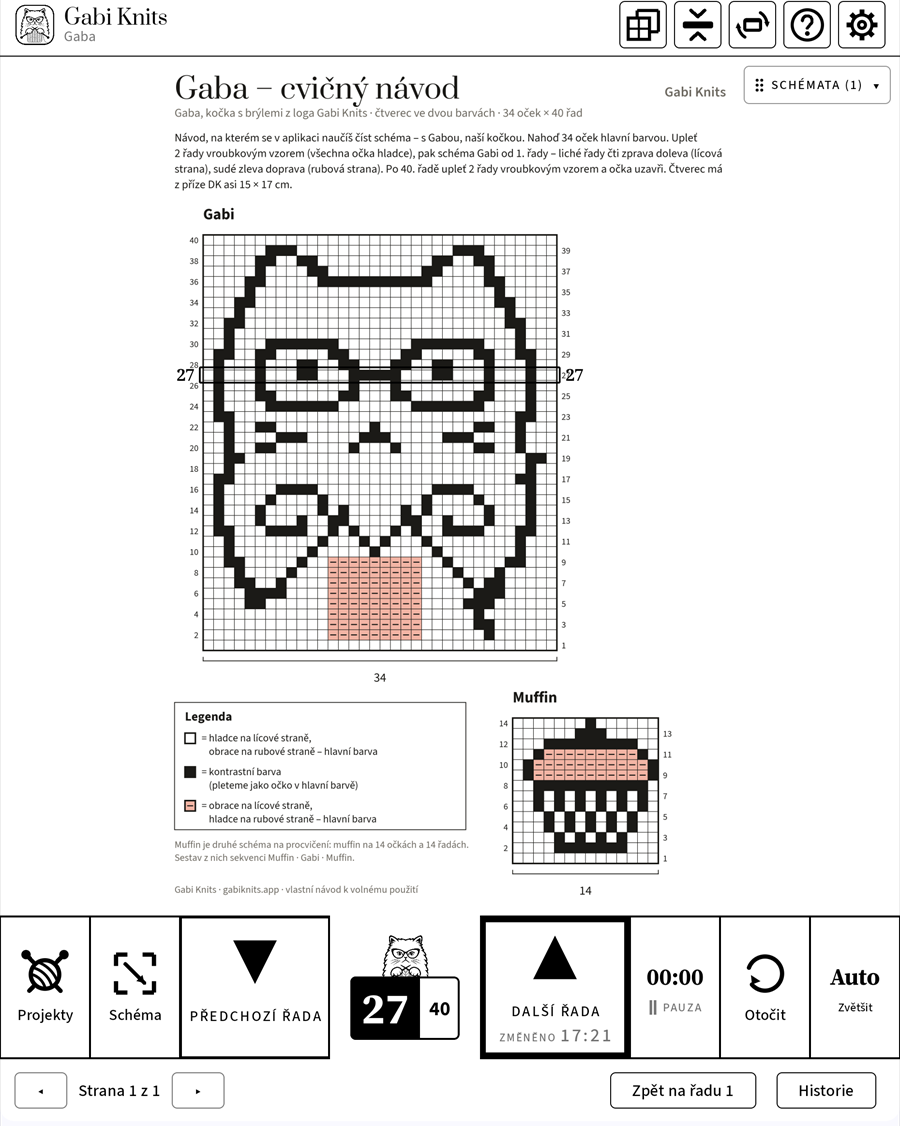
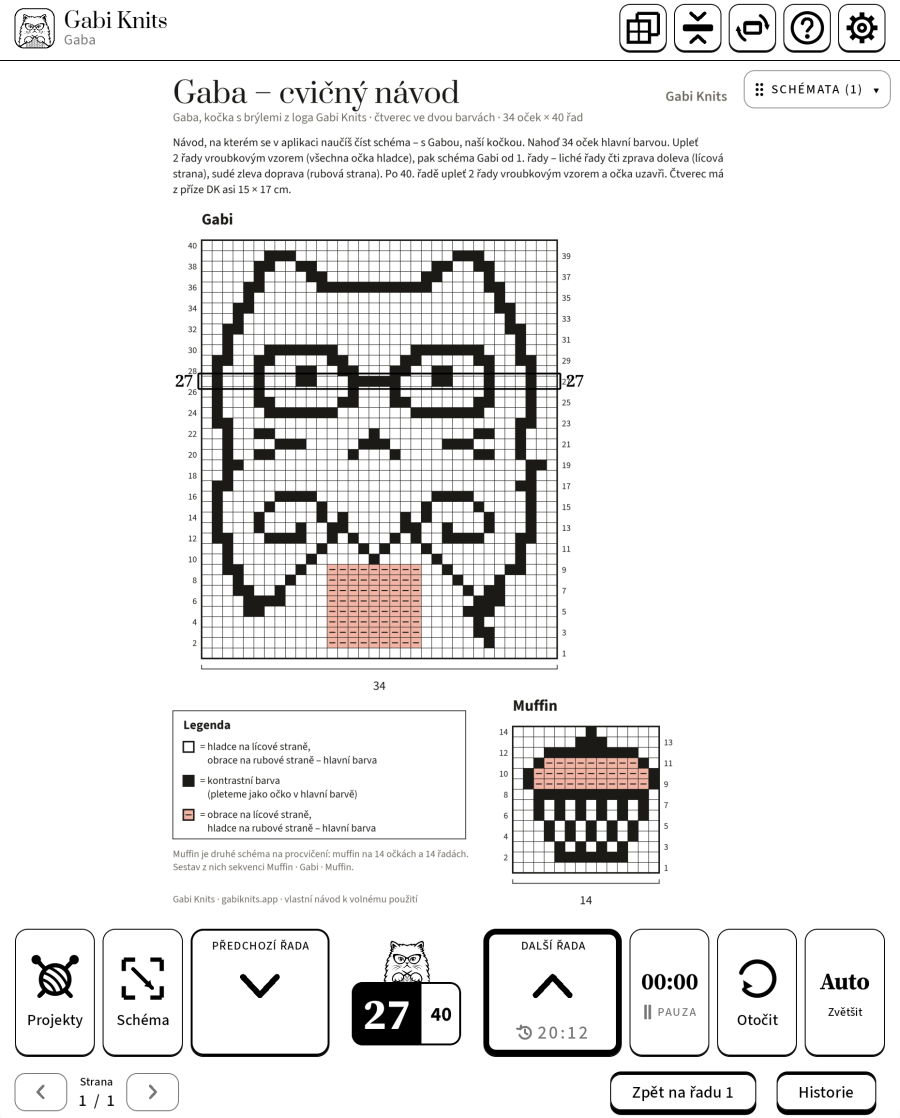
Zrzuty e-inku z nowym wyglądem aplikacji (przyciski jak klawisze, szewrony, godzina z ikonką, „Strona 1 / 1”) we wszystkich 7 językach - niemiecki, norweski, duński i szwedzki mają już własne zrzuty zamiast angielskiego

Changed region(s): [[0.0, 0.0, 1.0, 1.0]]

diff --git a/de/index.html b/de/index.html
@@ -60,7 +60,7 @@
 </div></section>
 
 <section id="eink" class="sec eink"><div class="wrap">
-  <div class="eink-shot"><div class="device eink"><div class="screen"><img src="../assets/shots/de/eink.png" width="900" height="1126" alt="Gabi Knits auf einem BOOX E-Ink-Tablet: das Diagramm mit der Katze Gabi aus der Übungsanleitung „Gaba“, die aktuelle Reihe in einem dicken schwarzen Rahmen, die Nummer auf beiden Seiten" loading="lazy" decoding="async"></div></div></div>
+  <div class="eink-shot"><div class="device eink"><div class="screen"><img src="../assets/shots/de/eink.png" width="900" height="1118" alt="Gabi Knits auf einem BOOX E-Ink-Tablet: das Diagramm mit der Katze Gabi aus der Übungsanleitung „Gaba“, die aktuelle Reihe in einem dicken schwarzen Rahmen, die Nummer auf beiden Seiten" loading="lazy" decoding="async"></div></div></div>
   <div class="eink-text">
     <p class="eyebrow">Für BOOX <span class="nw">E-Ink-Tablets</span></p>
     <h2>Von Anfang an für <span class="nw">E-Ink</span> entworfen</h2>
@@ -74,7 +74,7 @@
   <div class="trio">
     <figure class="d-phone"><div class="device phone"><div class="screen"><img src="../assets/shots/de/step3.png" width="480" height="949" alt="Das Diagramm Gabi Reihe für Reihe stricken: die aktuelle Reihe hervorgehoben, darunter die Taste „Nächste Reihe“" loading="lazy" decoding="async"></div></div><figcaption>Handy</figcaption></figure>
     <figure class="d-tablet"><div class="device tablet"><div class="screen"><img src="../assets/shots/de/tablet.png" width="1500" height="745" alt="Gabi Knits auf dem Tablet: das Diagramm mit der Katze Gabi vergrößert, die aktuelle Reihe unter einem gelben Balken und Katze Gaba über dem Reihenzähler" loading="lazy" decoding="async"></div></div><figcaption>Tablet</figcaption></figure>
-    <figure class="d-eink"><div class="device eink"><div class="screen"><img src="../assets/shots/de/eink.png" width="900" height="1126" alt="Gabi Knits auf einem BOOX E-Ink-Tablet: das Diagramm mit der Katze Gabi aus der Übungsanleitung „Gaba“, die aktuelle Reihe in einem dicken schwarzen Rahmen, die Nummer auf beiden Seiten" loading="lazy" decoding="async"></div></div><figcaption>BOOX <span class="nw">E-Ink-Tablet</span></figcaption></figure>
+    <figure class="d-eink"><div class="device eink"><div class="screen"><img src="../assets/shots/de/eink.png" width="900" height="1118" alt="Gabi Knits auf einem BOOX E-Ink-Tablet: das Diagramm mit der Katze Gabi aus der Übungsanleitung „Gaba“, die aktuelle Reihe in einem dicken schwarzen Rahmen, die Nummer auf beiden Seiten" loading="lazy" decoding="async"></div></div><figcaption>BOOX <span class="nw">E-Ink-Tablet</span></figcaption></figure>
   </div>
 </div></section>
 

diff --git a/cs/index.html b/cs/index.html
@@ -60,7 +60,7 @@
 </div></section>
 
 <section id="eink" class="sec eink"><div class="wrap">
-  <div class="eink-shot"><div class="device eink"><div class="screen"><img src="../assets/shots/cs/eink.png" width="900" height="1126" alt="Gabi Knits na e-inkovém tabletu BOOX: schéma s kočičkou Gabi z cvičného návodu „Gaba“, aktuální řada v silném černém rámečku, s číslem na obou stranách" loading="lazy" decoding="async"></div></div></div>
+  <div class="eink-shot"><div class="device eink"><div class="screen"><img src="../assets/shots/cs/eink.png" width="900" height="1118" alt="Gabi Knits na e-inkovém tabletu BOOX: schéma s kočičkou Gabi z cvičného návodu „Gaba“, aktuální řada v silném černém rámečku, s číslem na obou stranách" loading="lazy" decoding="async"></div></div></div>
   <div class="eink-text">
     <p class="eyebrow">Pro <span class="nw">e-inkové</span> tablety BOOX</p>
     <h2>Od začátku navržená pro <span class="nw">e-ink</span></h2>
@@ -74,7 +74,7 @@
   <div class="trio">
     <figure class="d-phone"><div class="device phone"><div class="screen"><img src="../assets/shots/cs/step3.png" width="480" height="949" alt="Pletení schématu Gabi řadu po řadě: aktuální řada zvýrazněná, pod ní tlačítko „Další řada“" loading="lazy" decoding="async"></div></div><figcaption>Telefon</figcaption></figure>
     <figure class="d-tablet"><div class="device tablet"><div class="screen"><img src="../assets/shots/cs/tablet.png" width="1500" height="745" alt="Gabi Knits na tabletu: přiblížené schéma s kočičkou Gabi, aktuální řada pod žlutou lištou a nad počítadlem řad kočička Gaba" loading="lazy" decoding="async"></div></div><figcaption>Tablet</figcaption></figure>
-    <figure class="d-eink"><div class="device eink"><div class="screen"><img src="../assets/shots/cs/eink.png" width="900" height="1126" alt="Gabi Knits na e-inkovém tabletu BOOX: schéma s kočičkou Gabi z cvičného návodu „Gaba“, aktuální řada v silném černém rámečku, s číslem na obou stranách" loading="lazy" decoding="async"></div></div><figcaption><span class="nw">E-inkový</span> tablet BOOX</figcaption></figure>
+    <figure class="d-eink"><div class="device eink"><div class="screen"><img src="../assets/shots/cs/eink.png" width="900" height="1118" alt="Gabi Knits na e-inkovém tabletu BOOX: schéma s kočičkou Gabi z cvičného návodu „Gaba“, aktuální řada v silném černém rámečku, s číslem na obou stranách" loading="lazy" decoding="async"></div></div><figcaption><span class="nw">E-inkový</span> tablet BOOX</figcaption></figure>
   </div>
 </div></section>
 

diff --git a/sv/index.html b/sv/index.html
@@ -60,7 +60,7 @@
 </div></section>
 
 <section id="eink" class="sec eink"><div class="wrap">
-  <div class="eink-shot"><div class="device eink"><div class="screen"><img src="../assets/shots/sv/eink.png" width="900" height="1126" alt="Gabi Knits på en BOOX e-ink-platta: diagrammet med katten Gabi från övningsmönstret ”Gaba”, det aktuella varvet i en tjock svart ram med numret på båda sidor" loading="lazy" decoding="async"></div></div></div>
+  <div class="eink-shot"><div class="device eink"><div class="screen"><img src="../assets/shots/sv/eink.png" width="900" height="1118" alt="Gabi Knits på en BOOX e-ink-platta: diagrammet med katten Gabi från övningsmönstret ”Gaba”, det aktuella varvet i en tjock svart ram med numret på båda sidor" loading="lazy" decoding="async"></div></div></div>
   <div class="eink-text">
     <p class="eyebrow">För BOOX <span class="nw">e-ink-plattor</span></p>
     <h2>Utformad för <span class="nw">e-ink</span> från början</h2>
@@ -74,7 +74,7 @@
   <div class="trio">
     <figure class="d-phone"><div class="device phone"><div class="screen"><img src="../assets/shots/sv/step3.png" width="480" height="949" alt="Gabi-diagrammet stickas varv för varv: det aktuella varvet markerat och knappen ”Nästa varv” under" loading="lazy" decoding="async"></div></div><figcaption>Telefon</figcaption></figure>
     <figure class="d-tablet"><div class="device tablet"><div class="screen"><img src="../assets/shots/sv/tablet.png" width="1500" height="745" alt="Gabi Knits på surfplatta: diagrammet med katten Gabi förstorat, det aktuella varvet under ett gult fält och katten Gaba ovanför varvräknaren" loading="lazy" decoding="async"></div></div><figcaption>Surfplatta</figcaption></figure>
-    <figure class="d-eink"><div class="device eink"><div class="screen"><img src="../assets/shots/sv/eink.png" width="900" height="1126" alt="Gabi Knits på en BOOX e-ink-platta: diagrammet med katten Gabi från övningsmönstret ”Gaba”, det aktuella varvet i en tjock svart ram med numret på båda sidor" loading="lazy" decoding="async"></div></div><figcaption>BOOX <span class="nw">e-ink-platta</span></figcaption></figure>
+    <figure class="d-eink"><div class="device eink"><div class="screen"><img src="../assets/shots/sv/eink.png" width="900" height="1118" alt="Gabi Knits på en BOOX e-ink-platta: diagrammet med katten Gabi från övningsmönstret ”Gaba”, det aktuella varvet i en tjock svart ram med numret på båda sidor" loading="lazy" decoding="async"></div></div><figcaption>BOOX <span class="nw">e-ink-platta</span></figcaption></figure>
   </div>
 </div></section>
 

diff --git a/pl/index.html b/pl/index.html
@@ -60,7 +60,7 @@
 </div></section>
 
 <section id="eink" class="sec eink"><div class="wrap">
-  <div class="eink-shot"><div class="device eink"><div class="screen"><img src="../assets/shots/pl/eink.png" width="900" height="1126" alt="Gabi Knits na tablecie e-ink BOOX: schemat z kotką Gabi ze wzoru ćwiczebnego „Gaba”, bieżący rządek w grubej czarnej ramce, z numerem po obu stronach" loading="lazy" decoding="async"></div></div></div>
+  <div class="eink-shot"><div class="device eink"><div class="screen"><img src="../assets/shots/pl/eink.png" width="900" height="1118" alt="Gabi Knits na tablecie e-ink BOOX: schemat z kotką Gabi ze wzoru ćwiczebnego „Gaba”, bieżący rządek w grubej czarnej ramce, z numerem po obu stronach" loading="lazy" decoding="async"></div></div></div>
   <div class="eink-text">
     <p class="eyebrow">Dla tabletów <span class="nw">e-ink</span> BOOX</p>
     <h2>Od początku projektowana pod <span class="nw">e-ink</span></h2>
@@ -74,7 +74,7 @@
   <div class="trio">
     <figure class="d-phone"><div class="device phone"><div class="screen"><img src="../assets/shots/pl/step3.png" width="480" height="949" alt="Dzierganie schematu Gabi rządek po rządku: bieżący rządek wyróżniony, pod spodem przycisk „Następny rządek”" loading="lazy" decoding="async"></div></div><figcaption>Telefon</figcaption></figure>
     <figure class="d-tablet"><div class="device tablet"><div class="screen"><img src="../assets/shots/pl/tablet.png" width="1500" height="745" alt="Gabi Knits na tablecie: schemat z kotką Gabi w przybliżeniu, bieżący rządek pod żółtym paskiem, a nad licznikiem rządków kotka Gaba" loading="lazy" decoding="async"></div></div><figcaption>Tablet</figcaption></figure>
-    <figure class="d-eink"><div class="device eink"><div class="screen"><img src="../assets/shots/pl/eink.png" width="900" height="1126" alt="Gabi Knits na tablecie e-ink BOOX: schemat z kotką Gabi ze wzoru ćwiczebnego „Gaba”, bieżący rządek w grubej czarnej ramce, z numerem po obu stronach" loading="lazy" decoding="async"></div></div><figcaption>Tablet <span class="nw">e-ink</span> BOOX</figcaption></figure>
+    <figure class="d-eink"><div class="device eink"><div class="screen"><img src="../assets/shots/pl/eink.png" width="900" height="1118" alt="Gabi Knits na tablecie e-ink BOOX: schemat z kotką Gabi ze wzoru ćwiczebnego „Gaba”, bieżący rządek w grubej czarnej ramce, z numerem po obu stronach" loading="lazy" decoding="async"></div></div><figcaption>Tablet <span class="nw">e-ink</span> BOOX</figcaption></figure>
   </div>
 </div></section>
 

diff --git a/da/index.html b/da/index.html
@@ -60,7 +60,7 @@
 </div></section>
 
 <section id="eink" class="sec eink"><div class="wrap">
-  <div class="eink-shot"><div class="device eink"><div class="screen"><img src="../assets/shots/da/eink.png" width="900" height="1126" alt="Gabi Knits på en BOOX e-ink-tablet: diagrammet med katten Gabi fra øveopskriften »Gaba«, den aktuelle række i en tyk sort ramme med nummeret i begge sider" loading="lazy" decoding="async"></div></div></div>
+  <div class="eink-shot"><div class="device eink"><div class="screen"><img src="../assets/shots/da/eink.png" width="900" height="1118" alt="Gabi Knits på en BOOX e-ink-tablet: diagrammet med katten Gabi fra øveopskriften »Gaba«, den aktuelle række i en tyk sort ramme med nummeret i begge sider" loading="lazy" decoding="async"></div></div></div>
   <div class="eink-text">
     <p class="eyebrow">Til BOOX <span class="nw">e-ink-tablets</span></p>
     <h2>Designet til <span class="nw">e-ink</span> fra begyndelsen</h2>
@@ -74,7 +74,7 @@
   <div class="trio">
     <figure class="d-phone"><div class="device phone"><div class="screen"><img src="../assets/shots/da/step3.png" width="480" height="949" alt="Gabi-diagrammet strikkes række for række: den aktuelle række fremhævet og knappen »Næste række« nedenunder" loading="lazy" decoding="async"></div></div><figcaption>Telefon</figcaption></figure>
     <figure class="d-tablet"><div class="device tablet"><div class="screen"><img src="../assets/shots/da/tablet.png" width="1500" height="745" alt="Gabi Knits på tablet: diagrammet med katten Gabi forstørret, den aktuelle række under en gul bjælke og katten Gaba over rækketælleren" loading="lazy" decoding="async"></div></div><figcaption>Tablet</figcaption></figure>
-    <figure class="d-eink"><div class="device eink"><div class="screen"><img src="../assets/shots/da/eink.png" width="900" height="1126" alt="Gabi Knits på en BOOX e-ink-tablet: diagrammet med katten Gabi fra øveopskriften »Gaba«, den aktuelle række i en tyk sort ramme med nummeret i begge sider" loading="lazy" decoding="async"></div></div><figcaption>BOOX <span class="nw">e-ink-tablet</span></figcaption></figure>
+    <figure class="d-eink"><div class="device eink"><div class="screen"><img src="../assets/shots/da/eink.png" width="900" height="1118" alt="Gabi Knits på en BOOX e-ink-tablet: diagrammet med katten Gabi fra øveopskriften »Gaba«, den aktuelle række i en tyk sort ramme med nummeret i begge sider" loading="lazy" decoding="async"></div></div><figcaption>BOOX <span class="nw">e-ink-tablet</span></figcaption></figure>
   </div>
 </div></section>
 

diff --git a/nb/index.html b/nb/index.html
@@ -60,7 +60,7 @@
 </div></section>
 
 <section id="eink" class="sec eink"><div class="wrap">
-  <div class="eink-shot"><div class="device eink"><div class="screen"><img src="../assets/shots/nb/eink.png" width="900" height="1126" alt="Gabi Knits på et BOOX e-ink-nettbrett: diagrammet med katten Gabi fra øvingsoppskriften «Gaba», gjeldende rad i en tykk svart ramme med nummeret på begge sider" loading="lazy" decoding="async"></div></div></div>
+  <div class="eink-shot"><div class="device eink"><div class="screen"><img src="../assets/shots/nb/eink.png" width="900" height="1118" alt="Gabi Knits på et BOOX e-ink-nettbrett: diagrammet med katten Gabi fra øvingsoppskriften «Gaba», gjeldende rad i en tykk svart ramme med nummeret på begge sider" loading="lazy" decoding="async"></div></div></div>
   <div class="eink-text">
     <p class="eyebrow">For BOOX <span class="nw">e-ink-nettbrett</span></p>
     <h2>Utformet for <span class="nw">e-ink</span> fra starten</h2>
@@ -74,7 +74,7 @@
   <div class="trio">
     <figure class="d-phone"><div class="device phone"><div class="screen"><img src="../assets/shots/nb/step3.png" width="480" height="949" alt="Gabi-diagrammet strikkes rad for rad: gjeldende rad uthevet og knappen «Neste rad» under" loading="lazy" decoding="async"></div></div><figcaption>Telefon</figcaption></figure>
     <figure class="d-tablet"><div class="device tablet"><div class="screen"><img src="../assets/shots/nb/tablet.png" width="1500" height="745" alt="Gabi Knits på nettbrett: diagrammet med katten Gabi forstørret, gjeldende rad under en gul linje og katten Gaba over radtelleren" loading="lazy" decoding="async"></div></div><figcaption>Nettbrett</figcaption></figure>
-    <figure class="d-eink"><div class="device eink"><div class="screen"><img src="../assets/shots/nb/eink.png" width="900" height="1126" alt="Gabi Knits på et BOOX e-ink-nettbrett: diagrammet med katten Gabi fra øvingsoppskriften «Gaba», gjeldende rad i en tykk svart ramme med nummeret på begge sider" loading="lazy" decoding="async"></div></div><figcaption>BOOX <span class="nw">e-ink-nettbrett</span></figcaption></figure>
+    <figure class="d-eink"><div class="device eink"><div class="screen"><img src="../assets/shots/nb/eink.png" width="900" height="1118" alt="Gabi Knits på et BOOX e-ink-nettbrett: diagrammet med katten Gabi fra øvingsoppskriften «Gaba», gjeldende rad i en tykk svart ramme med nummeret på begge sider" loading="lazy" decoding="async"></div></div><figcaption>BOOX <span class="nw">e-ink-nettbrett</span></figcaption></figure>
   </div>
 </div></section>
 

diff --git a/index.html b/index.html
@@ -60,7 +60,7 @@
 </div></section>
 
 <section id="eink" class="sec eink"><div class="wrap">
-  <div class="eink-shot"><div class="device eink"><div class="screen"><img src="assets/shots/en/eink.png" width="900" height="1126" alt="Gabi Knits on a BOOX e-ink tablet: the Gabi the cat chart from the practice pattern “Gaba”, with the current row in a thick black frame and its number on both sides" loading="lazy" decoding="async"></div></div></div>
+  <div class="eink-shot"><div class="device eink"><div class="screen"><img src="assets/shots/en/eink.png" width="900" height="1118" alt="Gabi Knits on a BOOX e-ink tablet: the Gabi the cat chart from the practice pattern “Gaba”, with the current row in a thick black frame and its number on both sides" loading="lazy" decoding="async"></div></div></div>
   <div class="eink-text">
     <p class="eyebrow">For BOOX <span class="nw">e-ink</span> tablets</p>
     <h2>Designed for <span class="nw">e-ink</span> from day one</h2>
@@ -74,7 +74,7 @@
   <div class="trio">
     <figure class="d-phone"><div class="device phone"><div class="screen"><img src="assets/shots/en/step3.png" width="480" height="949" alt="Knitting the Gabi chart row by row: the current row highlighted and the Next row button below" loading="lazy" decoding="async"></div></div><figcaption>Phone</figcaption></figure>
     <figure class="d-tablet"><div class="device tablet"><div class="screen"><img src="assets/shots/en/tablet.png" width="1500" height="745" alt="Gabi Knits on a tablet: the Gabi the cat chart zoomed in, the current row under a yellow bar and Gaba the cat above the row counter" loading="lazy" decoding="async"></div></div><figcaption>Tablet</figcaption></figure>
-    <figure class="d-eink"><div class="device eink"><div class="screen"><img src="assets/shots/en/eink.png" width="900" height="1126" alt="Gabi Knits on a BOOX e-ink tablet: the Gabi the cat chart from the practice pattern “Gaba”, with the current row in a thick black frame and its number on both sides" loading="lazy" decoding="async"></div></div><figcaption>BOOX <span class="nw">e-ink</span> tablet</figcaption></figure>
+    <figure class="d-eink"><div class="device eink"><div class="screen"><img src="assets/shots/en/eink.png" width="900" height="1118" alt="Gabi Knits on a BOOX e-ink tablet: the Gabi the cat chart from the practice pattern “Gaba”, with the current row in a thick black frame and its number on both sides" loading="lazy" decoding="async"></div></div><figcaption>BOOX <span class="nw">e-ink</span> tablet</figcaption></figure>
   </div>
 </div></section>
 
